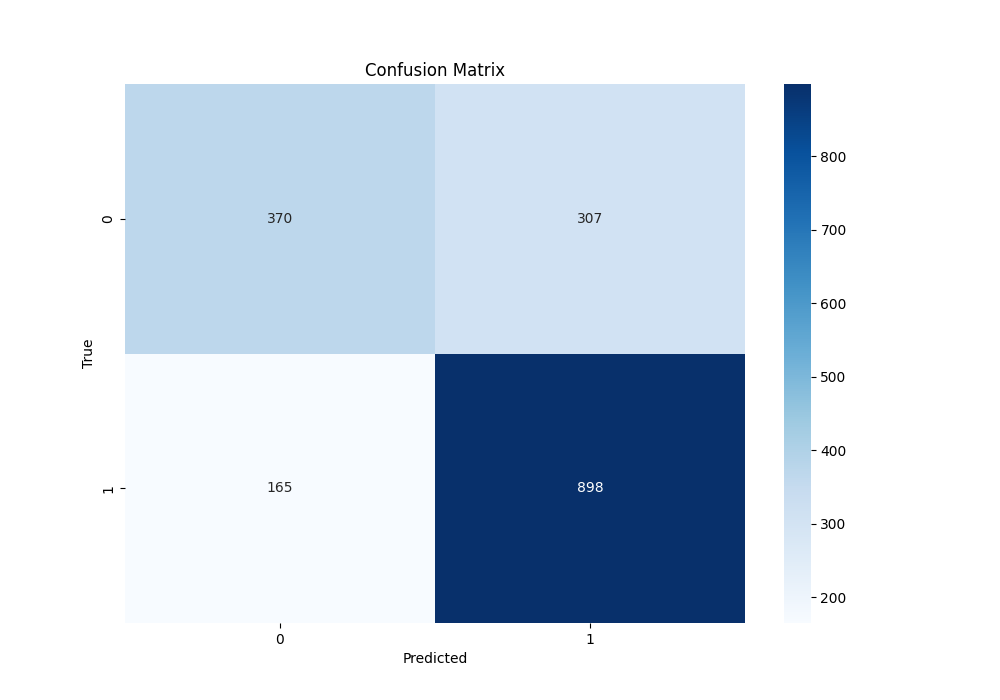
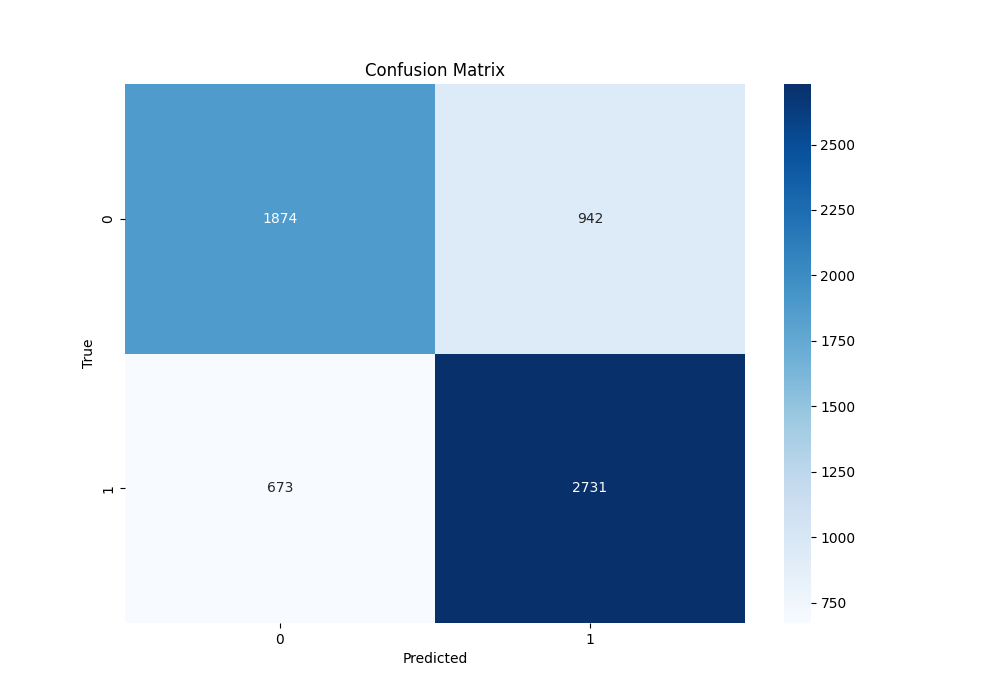
addestramento NN

diff --git a/models.py b/models.py
@@ -15,7 +15,8 @@ from sklearn.base import TransformerMixin
 import numpy as np
 import tensorflow as tf
 from tensorflow import keras
-from tensorflow.keras import layers
+from tensorflow.keras import layers, regularizers, callbacks
+from tensorflow.keras.optimizers import Adam, RMSprop
 
 class ColumnWiseOutlierClipper(TransformerMixin):
     def __init__(self, lower_percentile=1, upper_percentile=99):
@@ -83,11 +84,11 @@ y = data[y_name]
 X_train, X_test, y_train, y_test = train_test_split(X, y, test_size=0.15, random_state=seed, shuffle=True)
 
 xgb_model = False
-rf_model = True
+rf_model = False
 knn_model = False
 ada_model = False
 svc_model = False
-nn_model = False
+nn_model = True
 
 if xgb_model:
     scaler = PowerTransformer()
@@ -192,23 +193,54 @@ if svc_model:
     print_metrics(y_test=y_test, y_pred=y_pred_svc)
 
 if nn_model:
+    tf.random.set_seed(seed)
     scaler = MinMaxScaler()
     X_train_nn = scaler.fit_transform(X_train)
     X_test_nn = scaler.transform(X_test)
+
     name = "nn"
-    model = keras.Sequential([
-        layers.Dense(64, activation='relu', input_shape=(X_train.shape[1],)),
-        layers.Dense(32, activation='relu'),
-        layers.Dense(16, activation='relu'),
-        layers.Dense(1, activation='sigmoid')
-    ])
-    model.compile(optimizer='adam',
+    input_layer = layers.Input(shape=(X_train.shape[1],))
+    x = layers.Dense(256)(input_layer)
+    x = layers.BatchNormalization()(x)
+    x = layers.ReLU()(x)
+    x = layers.Dense(256)(x)
+    x = layers.BatchNormalization()(x)
+    x = layers.ReLU()(x)
+    x = layers.Dense(128)(x)
+    x = layers.BatchNormalization()(x)
+    x = layers.ReLU()(x)
+    x = layers.Dense(128)(x)
+    x = layers.BatchNormalization()(x)
+    x = layers.ReLU()(x)
+    x = layers.Dense(32)(x)
+    x = layers.BatchNormalization()(x)
+    x = layers.ReLU()(x)
+    x = layers.Dense(32)(x)
+    x = layers.BatchNormalization()(x)
+    x = layers.ReLU()(x)
+    output_layer = layers.Dense(1, activation='sigmoid')(x)
+    model = keras.Model(inputs=input_layer, outputs=output_layer)
+
+    model.compile(optimizer=Adam(learning_rate=0.001),
                   loss='binary_crossentropy',
                   metrics=['accuracy'])
-    model.fit(X_train_nn, y_train, epochs=10, batch_size=32, validation_split=0.15)
+
+    early_stopping = callbacks.EarlyStopping(
+        monitor='val_accuracy',
+        patience=10,
+        verbose=1,
+        restore_best_weights=True,
+    )
+    history = model.fit(X_train_nn, y_train, epochs=50, batch_size=512, validation_split=0.1, callbacks=[early_stopping])
     predictions = model.predict(X_test_nn)
     y_pred_nn = (predictions > 0.5).astype("int32")
+    plt.plot(history.history['loss'], label='Training Loss')
+    plt.plot(history.history['val_loss'], label='Validation Loss')
+    plt.xlabel('Epochs')
+    plt.ylabel('Loss')
+    plt.title('Training and Validation Loss')
+    plt.legend()
+    plt.show()
     plot_confusion_matrix(y_test=y_test, y_pred=y_pred_nn, name=name)
     print_metrics(y_test=y_test, y_pred=y_pred_nn)
-
     # ensemble = VotingClassifier(estimators=[('xgb', xgb), ('rf', rf), ('knn', knn)], voting='hard')
